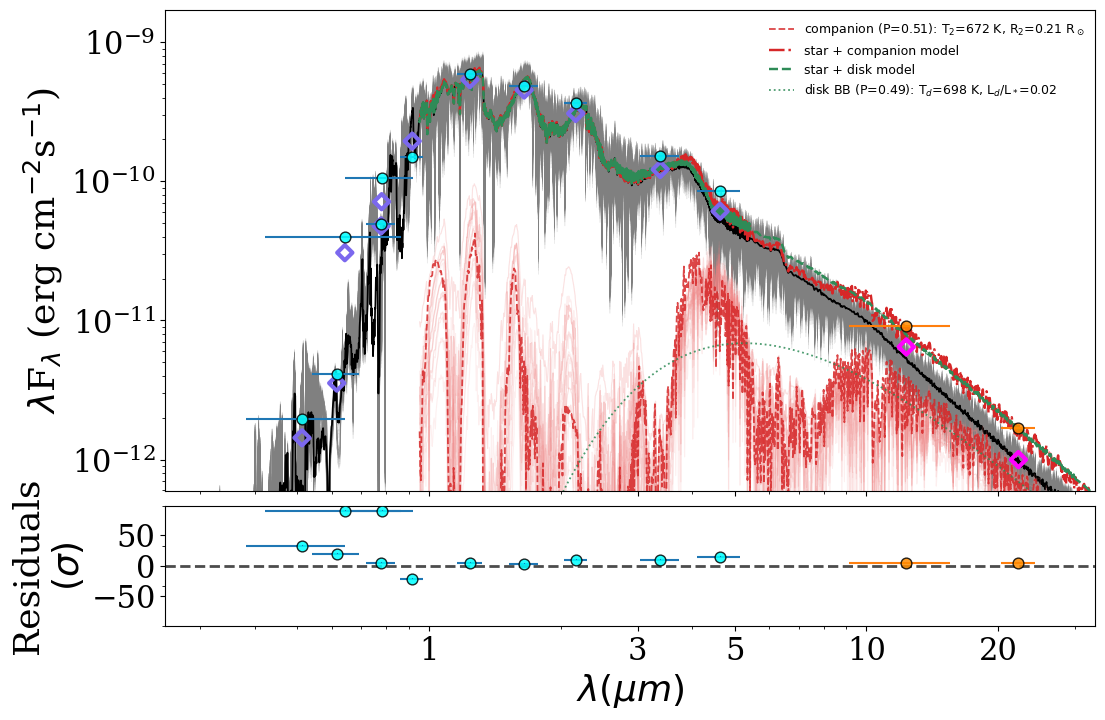
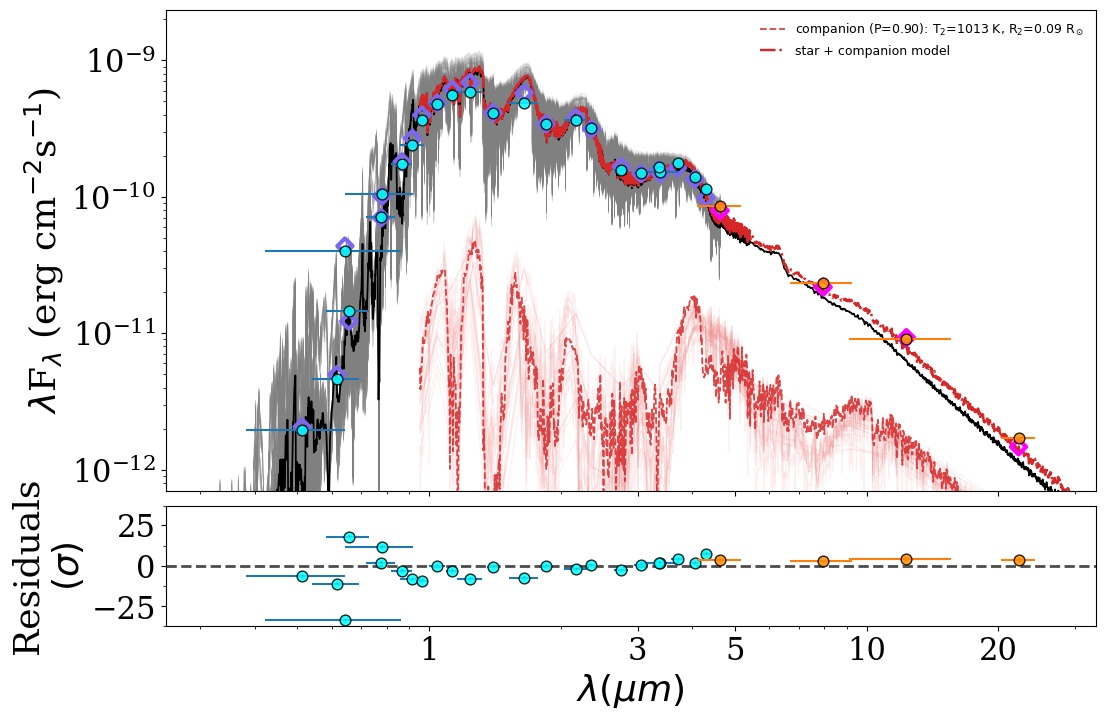
docs: document the spectro-photometry data sources, refresh IR-excess plots
Add a "Data sources & spectro-photometry" page (and the canonical README
section it pulls from) covering the seven inputs the librarian assembles --
catalog photometry plus the Gaia XP / DESI-BOSS / SPHEREx / CASSIS-IRS / IUE
synthetic fills -- their wavelength ranges, roles, the per-source ignore
switches and the Fitter.spectra opt-out. Include the interferometric XP A/B
validation (28 CHARA benchmarks: ~35% tighter Teff with the fills). Wire the
page into the index toctree and refresh the IR-excess SED figures with the
current W2-routed, raw-grid runs.

diff --git a/README.md b/README.md
@@ -404,6 +404,58 @@ And a new call to `s.print_mags()` would yield:
 A list of allowed filters can be found
 [here](https://github.com/jvines/astroARIADNE/blob/master/filters.md)
 
+<!-- DOC:DATASOURCES-START -->
+### Data sources & spectro-photometry
+
+When a `Star` is created, **ARIADNE**'s librarian assembles the broadband SED
+automatically. It pulls catalog photometry (Gaia, 2MASS, AllWISE, Pan-STARRS,
+SkyMapper, SDSS, APASS, Strömgren, Tycho, GALEX, and the far-IR catalogs) and
+then *gap-fills* with synthetic photometry derived from public spectroscopic
+and spectro-photometric surveys. Every magnitude is added **first-write-wins**:
+a real catalog measurement is never overwritten by a synthetic one, and the
+synthetic sources only ever fill wavelengths the catalogs leave uncovered.
+
+| Source | Range | Role | Opt out with |
+|--------|-------|------|--------------|
+| Catalog photometry | UV–far-IR | the SED backbone | per-catalog `ignore=[...]` |
+| **Gaia XP** synthetic | 0.4–1.05 µm | fills optical gaps (Strömgren / JKC / SDSS / PS1 standardized systems) for `G ≤ 16` | `ignore=['XP']` |
+| **DESI / BOSS** | 0.36–1.0 µm | the faint-end (`G > 16`) continuation of the optical fill | `ignore=['DESI']`, `ignore=['BOSS']` |
+| **SPHEREx** QR2 | 1.0–5.0 µm | super-band spectro-photometry bridging the J/H/Ks/W1/W2 gaps (incl. the 2MASS–WISE void) | `ignore=['SPHEREX']` |
+| **CASSIS / Spitzer-IRS** | 5–38 µm | IR-excess super-bands (10/18 µm silicate features) — never fit, only quantified as excess | `ignore=['CASSIS']` |
+| **IUE / INES** | 0.12–0.33 µm | GALEX FUV/NUV for bright stars where GALEX saturates (replaces the saturated catalog value) | `ignore=['IUE']` |
+
+Each synthetic band is convolved through the same filter curves the fit uses,
+carries a measured calibration floor on its uncertainty, and is announced in
+the log as it is added, e.g.
+
+```
+*** Gaia XP synthetic photometry filled 9 uncovered band(s): STROMGREN_v,
+    STROMGREN_b, GROUND_JOHNSON_B, GROUND_COUSINS_R, ... ***
+*** SPHEREx QR2 spectro-photometry added 10 super-band(s): SPHEREX_1130(3),
+    SPHEREX_1400(4), ... ***
+```
+
+The XP/SPHEREx fills also act as a **quality control** on the catalog: an
+observed magnitude that disagrees with its own synthetic counterpart by more
+than the tolerance (tightened for high-proper-motion stars, where multi-epoch
+surveys split the source) is flagged as a wrong/split crossmatch and dropped.
+
+**Turning the spectro-photometry off.** The whole synthetic layer is opt-out at
+the fit level — `Fitter.spectra = False` drops every XP/DESI/BOSS fill and the
+SPHEREx super-bands, leaving a catalog-only SED:
+
+```python
+f = Fitter()
+f.star = s
+f.spectra = False        # catalog photometry only (no XP / SPHEREx / spectra)
+```
+
+Why use the fills? On a sample of stars with directly-measured (interferometric)
+temperatures, the XP optical fills tighten the recovered `Teff` posterior by
+~35 % and can make otherwise unfittable, sparsely-observed stars fit at all —
+see [the validation below](#validating-the-fills).
+<!-- DOC:DATASOURCES-END -->
+
 ### Interstellar extinction
 
 **ARIADNE** has an incorporated prior for the interstellar extinction in the

diff --git a/docs/data_sources.md b/docs/data_sources.md
@@ -1,0 +1,41 @@
+# Data sources & spectro-photometry
+
+**ARIADNE** builds the broadband SED automatically from catalog photometry and
+*gap-fills* it with synthetic photometry derived from public spectroscopic and
+spectro-photometric surveys. The sources, their roles, and how to opt out of
+each are documented below (pulled from the README so the two never drift):
+
+```{include} ../README.md
+:start-after: <!-- DOC:DATASOURCES-START -->
+:end-before: <!-- DOC:DATASOURCES-END -->
+```
+
+(validating-the-fills)=
+## Validating the fills
+
+The synthetic optical fills were validated against **28 stars with directly
+measured (interferometric) effective temperatures** from the CHARA array
+(Boyajian et al. 2012, 2013), spanning F through M. Each star was fit twice —
+with the Gaia XP fills in (`spectra = True`) and without them
+(`spectra = False`) — using wide, uninformative `Teff` and `[Fe/H]` priors so
+the *photometry*, not a prior, drives the result.
+
+![XP A/B validation against interferometric temperatures](img/xp_teff_gain.png)
+
+The fills add 6–10 genuine optical bands per star (Strömgren, Cousins, SDSS,
+Pan-STARRS) — real gaps even for these bright, well-observed benchmarks. The
+result:
+
+- **Precision.** The recovered `Teff` posterior is **~35 % tighter with the
+  fills** (mean σ 58 K vs 88 K; 19 of 20 stars improve). This is the robust,
+  reproducible gain — the error bars in the left panel shrink uniformly.
+- **Accuracy.** The fills introduce only a small (~30 K, within the sample
+  scatter) cool shift; the SED `Teff` tracks the interferometric `Teff` with or
+  without them.
+- **Enabling fits.** Sparsely-observed stars that have too few catalog bands to
+  fit at all become fittable once the fills are in (e.g. Barnard's Star, which
+  has ≤ 5 usable catalog bands on its own).
+
+The benchmark stars are the *best-observed* in the sky, so this measures the
+fills where they have the least to add; on the sparsely-observed stars the
+fills actually target, the gain is larger.

diff --git a/docs/index.md b/docs/index.md
@@ -5,6 +5,12 @@ characterizes stellar atmospheres by fitting broadband photometry to grids of
 stellar atmosphere models with nested sampling, and combines several model
 grids through Bayesian Model Averaging (BMA).
 
+It assembles the SED automatically from catalog photometry and gap-fills it
+with synthetic photometry from Gaia XP, SPHEREx, DESI/BOSS, Spitzer-IRS and IUE
+(see {doc}`data_sources`), fits through four explicit endpoints —
+`fit_bma`, `fit_single`, `fit_binary` and `fit_irx` — and characterizes any
+infrared excess by Bayesian model selection (see {doc}`irx`).
+
 ```{toctree}
 :maxdepth: 2
 :caption: Contents
@@ -12,6 +18,7 @@ grids through Bayesian Model Averaging (BMA).
 installation
 theory
 usage
+data_sources
 output
 irx
 examples
